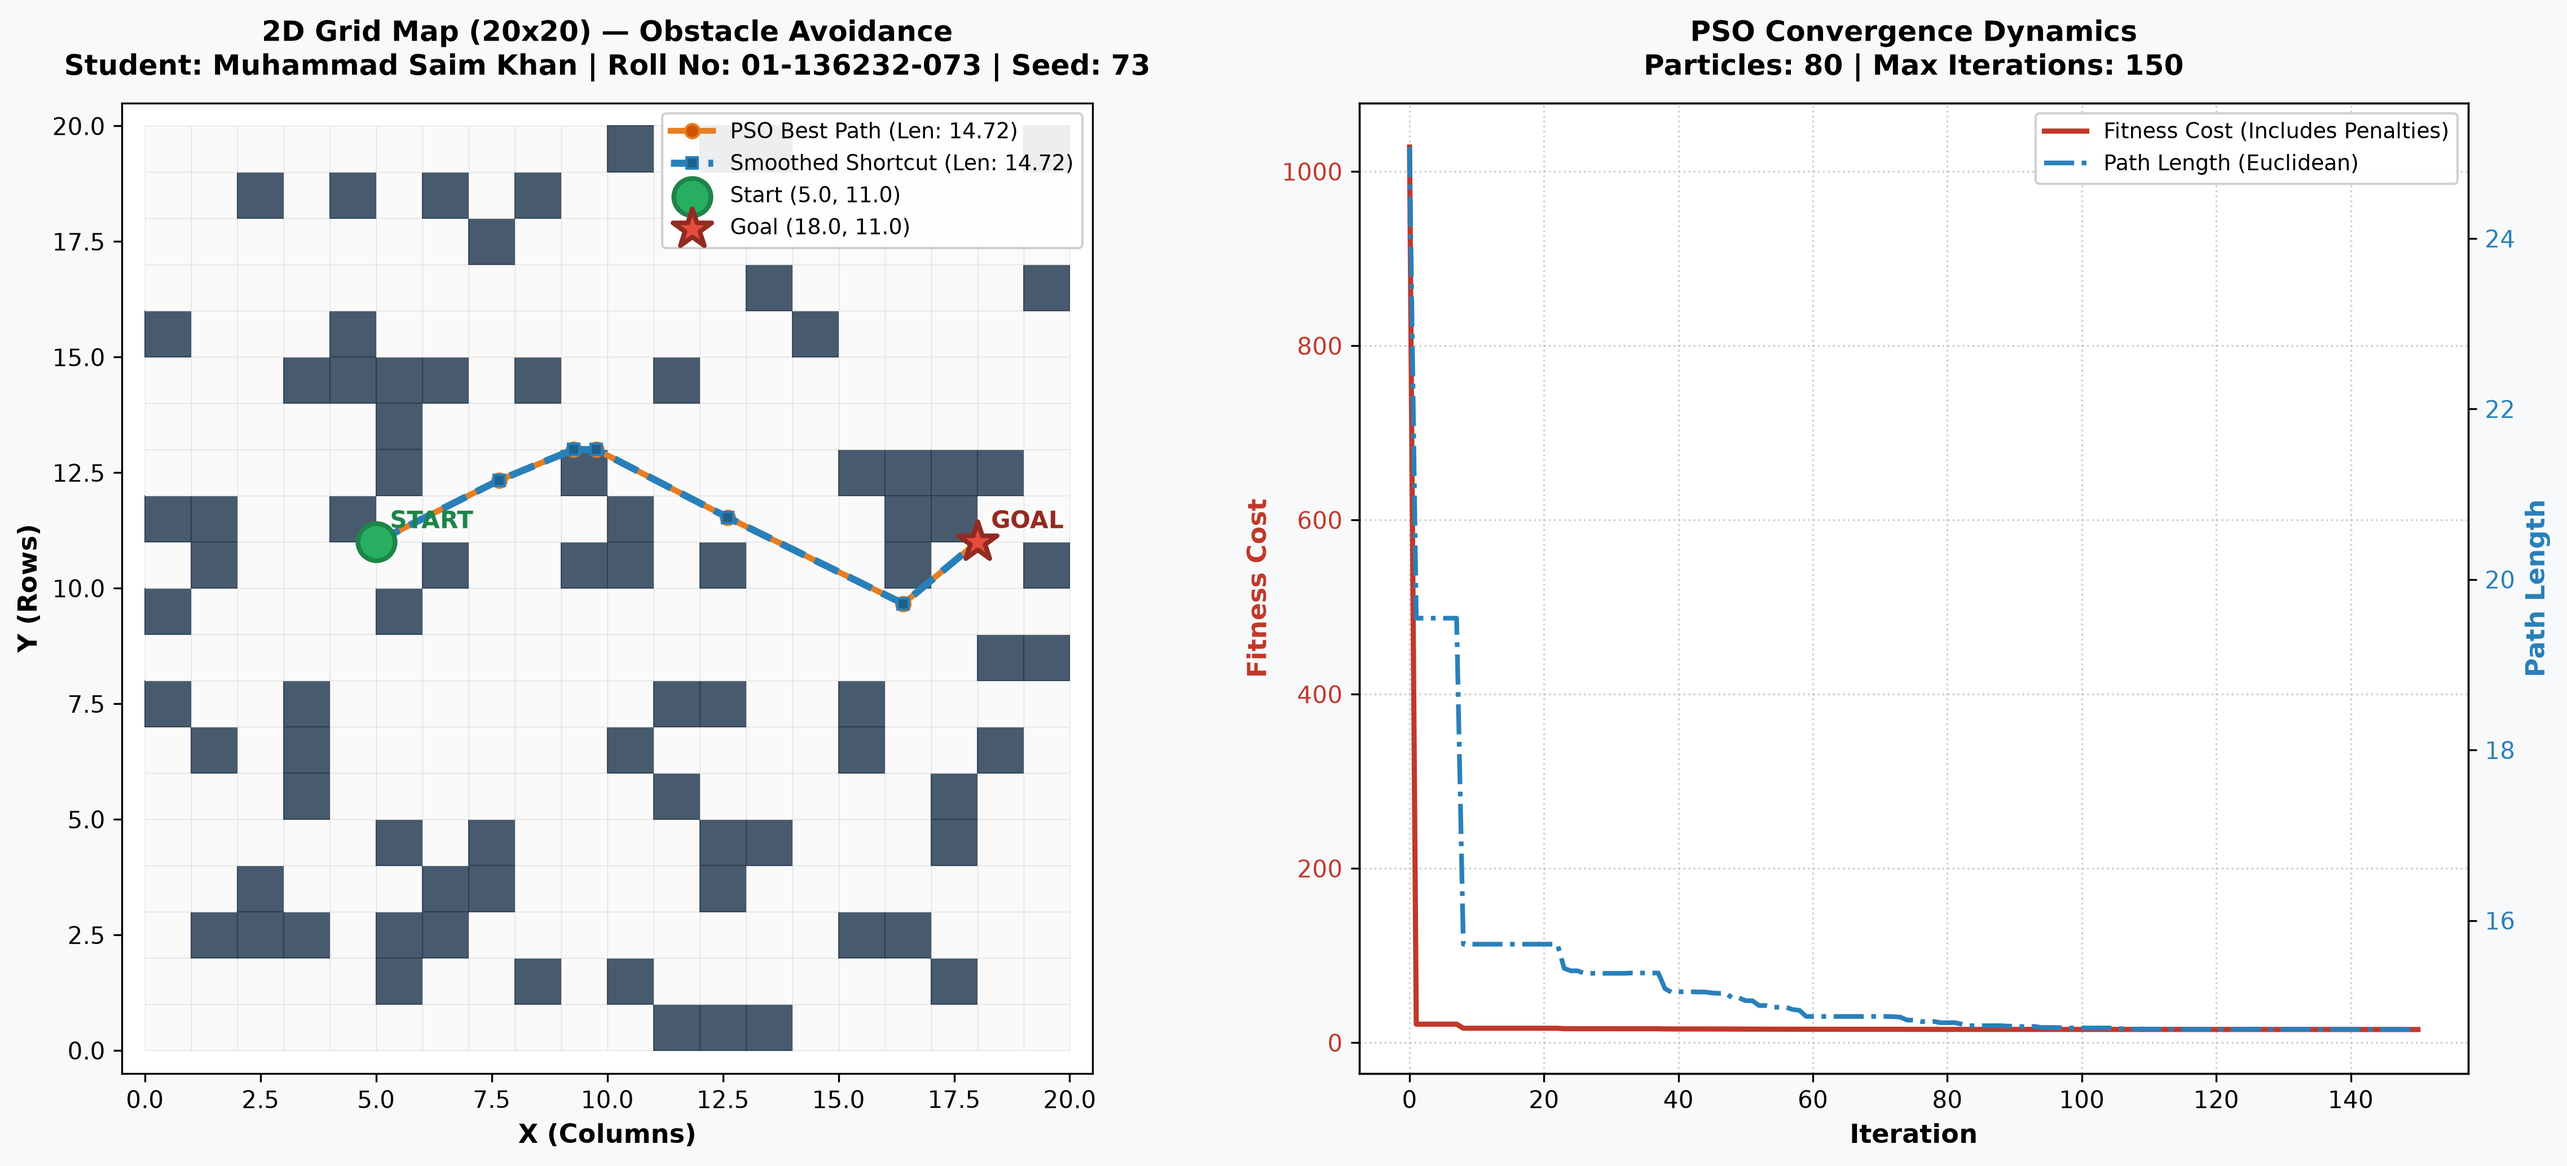
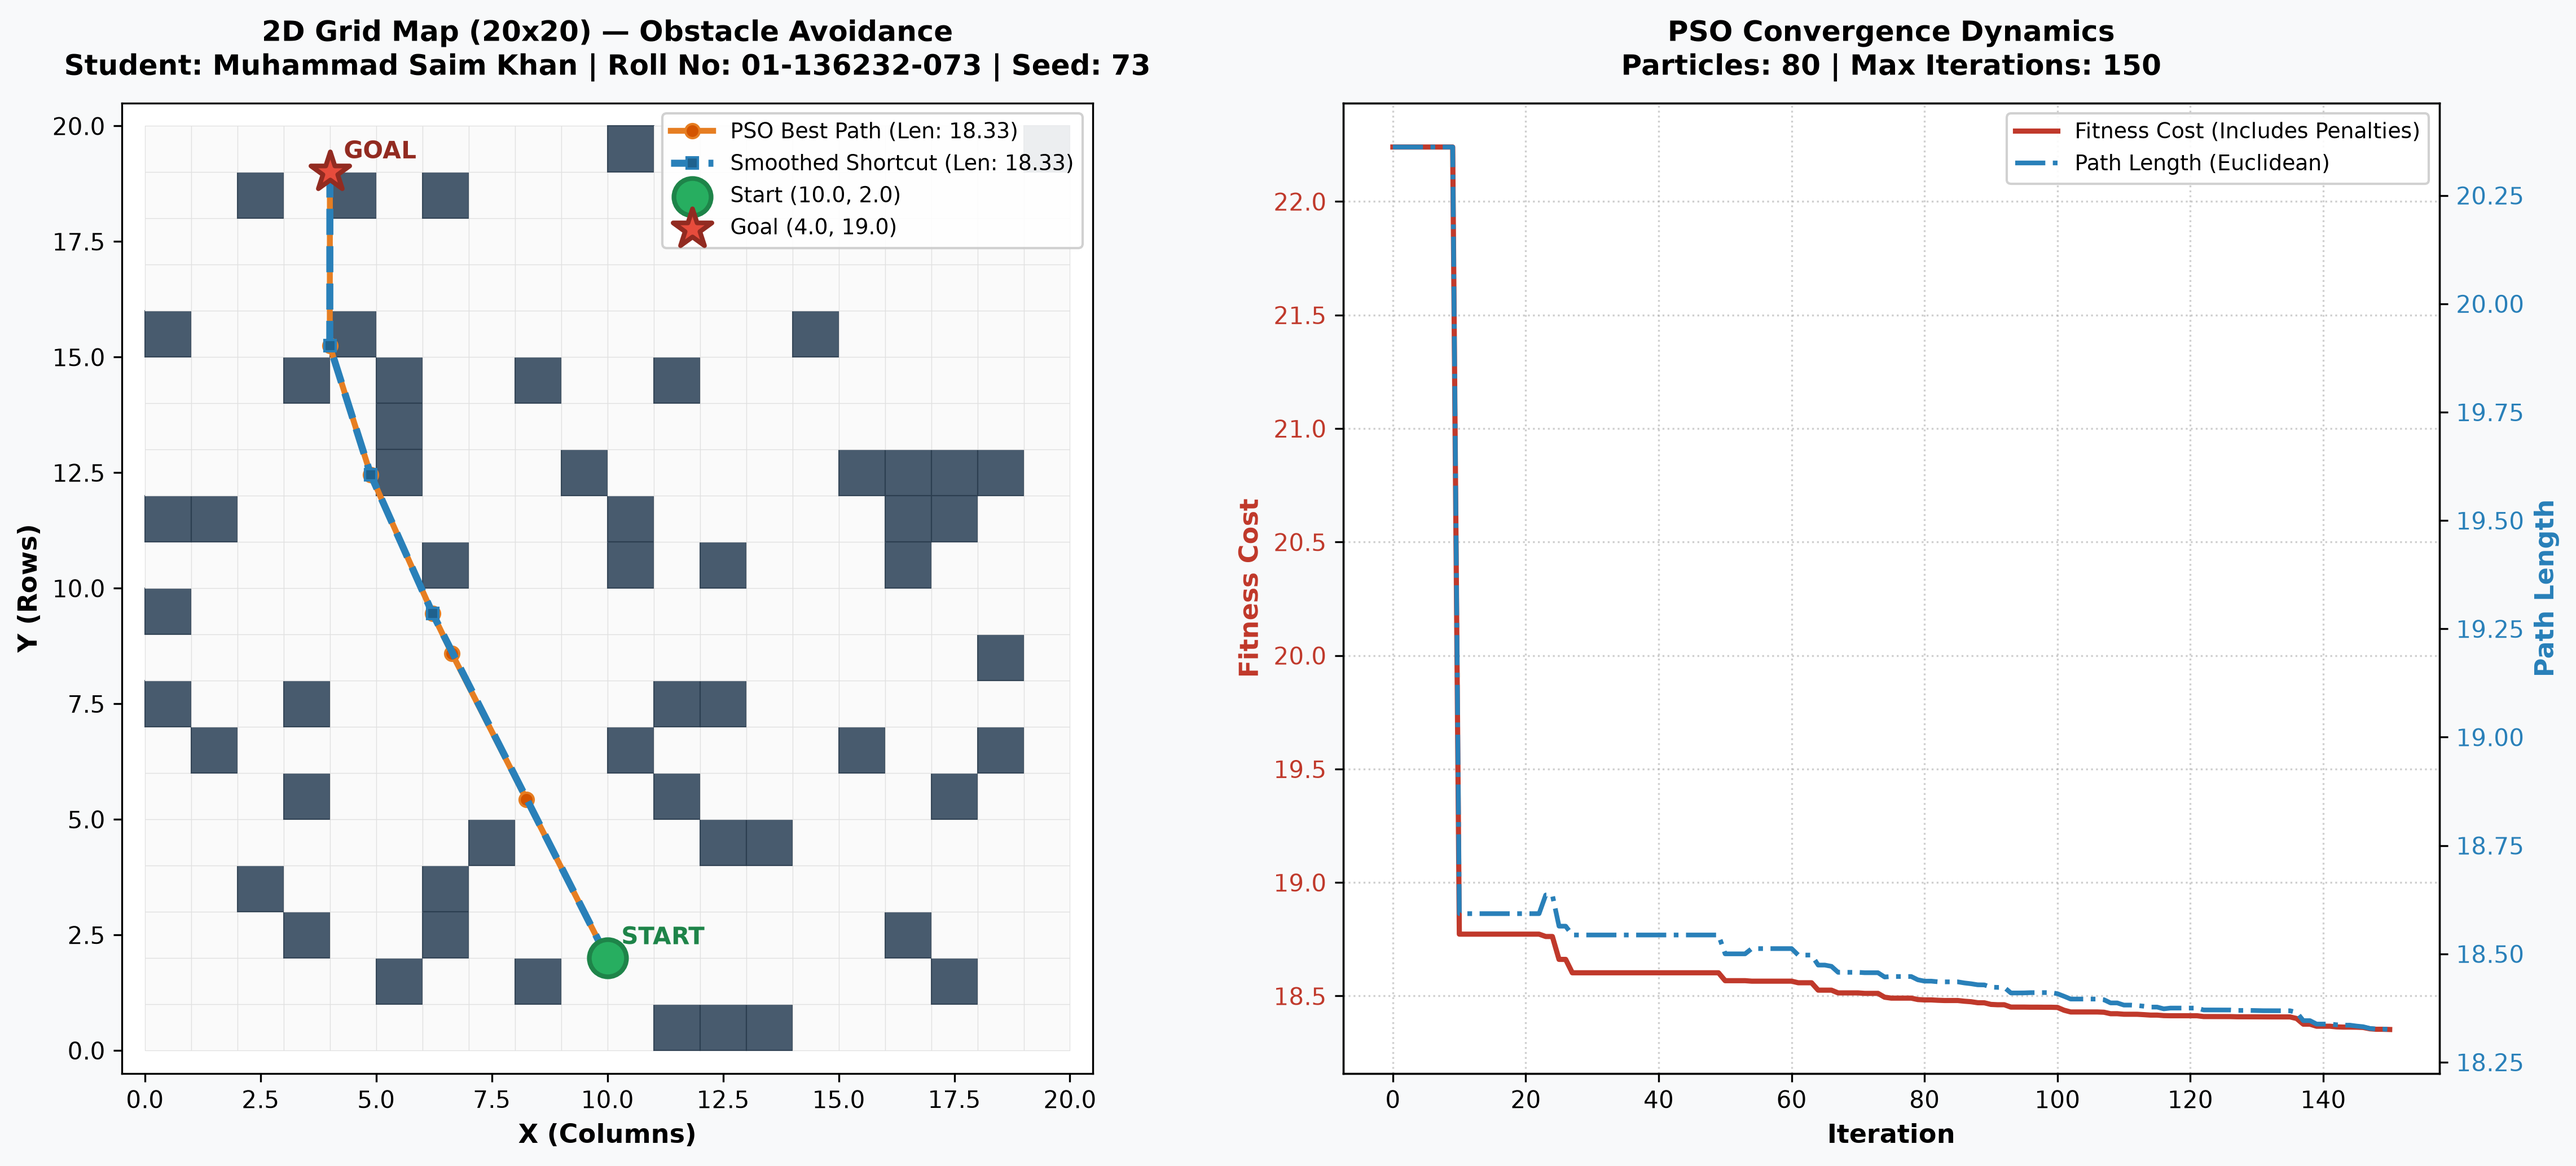
feat: embed student handwritten flowchart, synchronize 55 obstacles configuration and results

diff --git a/src/environment.py b/src/environment.py
@@ -5,7 +5,7 @@ Generates a programmatic 2D grid instance with obstacle cells, start point,
 and goal point using the student's roll number as a deterministic random seed.
 """
 
-from typing import Tuple, Set, List
+from typing import Tuple, Set, List, Optional
 import random
 from collections import deque
 import numpy as np
@@ -20,11 +20,16 @@ class GridEnvironment:
         self,
         grid_size: int = 20,
         seed: int = 73,
-        obstacle_ratio: float = 0.20,
+        num_obstacles: Optional[int] = 55,
+        obstacle_ratio: Optional[float] = None,
     ):
         self.grid_size = grid_size
         self.seed = seed
-        self.obstacle_ratio = obstacle_ratio
+        if obstacle_ratio is not None:
+            self.num_obstacles = int(grid_size * grid_size * obstacle_ratio)
+        else:
+            self.num_obstacles = num_obstacles if num_obstacles is not None else 55
+        self.obstacle_ratio = self.num_obstacles / (grid_size * grid_size)
         self.obstacles: Set[Tuple[int, int]] = set()
         self.start: Tuple[float, float] = (0.0, 0.0)
         self.goal: Tuple[float, float] = (0.0, 0.0)
@@ -40,13 +45,10 @@ class GridEnvironment:
         random.seed(self.seed)
         np.random.seed(self.seed % (2**32 - 1))
 
-        total_cells = self.grid_size * self.grid_size
-        num_obstacles = int(total_cells * self.obstacle_ratio)
-
         all_cells = [(r, c) for r in range(self.grid_size) for c in range(self.grid_size)]
         
         # Programmatically generate obstacle cells from seed
-        sampled_obstacles = random.sample(all_cells, num_obstacles)
+        sampled_obstacles = random.sample(all_cells, self.num_obstacles)
         self.obstacles = set(sampled_obstacles)
 
         # Free non-obstacle cells

diff --git a/main.py b/main.py
@@ -14,7 +14,7 @@ from src.config import (
     STUDENT_ROLL_NO,
     DEFAULT_SEED,
     DEFAULT_GRID_SIZE,
-    DEFAULT_OBSTACLE_RATIO,
+    DEFAULT_NUM_OBSTACLES,
     DEFAULT_NUM_PARTICLES,
     DEFAULT_NUM_ITERATIONS,
     DEFAULT_NUM_WAYPOINTS,
@@ -54,10 +54,16 @@ def parse_arguments() -> argparse.Namespace:
         help=f"Dimension of square 2D grid (default: {DEFAULT_GRID_SIZE})",
     )
     parser.add_argument(
+        "--obstacles",
+        type=int,
+        default=DEFAULT_NUM_OBSTACLES,
+        help=f"Number of obstacle cells (default: {DEFAULT_NUM_OBSTACLES})",
+    )
+    parser.add_argument(
         "--obstacle-ratio",
         type=float,
-        default=DEFAULT_OBSTACLE_RATIO,
-        help=f"Ratio of obstacle cells to total grid cells (default: {DEFAULT_OBSTACLE_RATIO})",
+        default=None,
+        help="Optional ratio of obstacle cells to total grid cells",
     )
     parser.add_argument(
         "--particles",
@@ -112,7 +118,7 @@ def main():
     print(f" Roll Number    : {args.roll_no}")
     print(f" Problem Seed   : {seed}")
     print(f" Grid Dimension : {args.grid_size} x {args.grid_size}")
-    print(f" Obstacle Ratio : {args.obstacle_ratio:.1%}")
+    print(f" Obstacles Count: {args.obstacles} cells")
     print(f" Swarm Size     : {args.particles} particles")
     print(f" Iterations     : {args.iterations} cycles")
     print(f" Path Waypoints : {args.waypoints} intermediate points")
@@ -123,6 +129,7 @@ def main():
     env = GridEnvironment(
         grid_size=args.grid_size,
         seed=seed,
+        num_obstacles=args.obstacles,
         obstacle_ratio=args.obstacle_ratio,
     )
     summary = env.get_summary()

diff --git a/src/config.py b/src/config.py
@@ -35,7 +35,7 @@ def roll_number_to_seed(roll_no: Union[str, int]) -> int:
 # Default Problem Instance Parameters (Roll Number: 01-136232-073 -> Seed: 73)
 DEFAULT_SEED: int = 73
 DEFAULT_GRID_SIZE: int = 20
-DEFAULT_OBSTACLE_RATIO: float = 0.20  # 20% obstacle coverage (80 obstacles in 20x20)
+DEFAULT_NUM_OBSTACLES: int = 55  # 55 obstacles as specified in student handwritten flowchart
 
 # PSO Hyperparameters
 DEFAULT_NUM_PARTICLES: int = 80

diff --git a/README.md b/README.md
@@ -13,12 +13,12 @@
 | **Roll Number** | **01-136232-073** |
 | **Random Seed Used** | **`73`** (extracted directly from roll number ending ID) |
 | **Grid Dimensions** | 20 &times; 20 (400 total cells) |
-| **Obstacle Ratio** | 20.0% (80 blocked cells) |
-| **Start Point $(X, Y)$** | **$(5.0, 11.0)$** |
-| **Goal Point $(X, Y)$** | **$(18.0, 11.0)$** |
-| **Euclidean Straight-Line Distance** | **13.00 units** |
+| **Obstacles Placed** | **55 blocked cells** (as specified in student flowchart) |
+| **Start Point $(X, Y)$** | **$(10.0, 2.0)$** |
+| **Goal Point $(X, Y)$** | **$(4.0, 19.0)$** |
+| **Euclidean Straight-Line Distance** | **18.03 units** |
 
-> **Note on Problem Uniqueness:** In strict accordance with the assignment specifications, the grid environment, obstacle layout, and start/goal locations are generated purely programmatically using `random.seed(73)`. No coordinates or obstacles are hardcoded.
+> **Note on Problem Uniqueness:** In strict accordance with the assignment specifications, the grid environment, 55 obstacle layout, and start/goal locations are generated purely programmatically using `random.seed(73)`. No coordinates or obstacles are hardcoded.
 
 ---
 
@@ -80,30 +80,30 @@ flowchart TD
     J --> K([Output Shortest Obstacle-Free Path])
 ```
 
-### Visual Flow Diagram
-![Algorithm Flowchart](assets/flowchart.png)
-
-> **Hand-Drawn Flow Diagram Note:** A hand-drawn, paper-photographed version of this flow diagram can also be directly placed at `assets/flowchart.png`.
+### Hand-Drawn Flow Diagram (Photographed)
+<div align="center">
+  <img src="assets/flowchart.jpg" alt="Hand-Drawn Flow Diagram" width="500" />
+</div>
 
 ---
 
 ## 3. Experimental Results
 
-Execution of `python main.py` with seed **`73`** produced the following results:
+Execution of `python main.py` with seed **`73`** and **55 obstacles** produced the following results:
 
 | Metric | Initial Swarm Best | Final PSO Best | Post-Processed Path |
 | :--- | :--- | :--- | :--- |
-| **Status** | Infeasible (1 Collision) | **FEASIBLE (0 Collisions)** | **FEASIBLE (0 Collisions)** |
-| **Fitness Cost** | 1028.11 | **15.11** | **14.72** |
-| **Path Length** | 25.07 units | **14.72 units** | **14.72 units** |
-| **Obstacle Collisions** | 1 cell | **0 cells** | **0 cells** |
-| **Direct Distance** | 13.00 units | 13.00 units | 13.00 units |
+| **Status** | **FEASIBLE (0 Collisions)** | **FEASIBLE (0 Collisions)** | **FEASIBLE (0 Collisions)** |
+| **Fitness Cost** | 22.24 | **18.35** | **18.33** |
+| **Path Length** | 20.36 units | **18.33 units** | **18.33 units** |
+| **Obstacle Collisions** | 0 cells | **0 cells** | **0 cells** |
+| **Direct Distance** | 18.03 units | 18.03 units | 18.03 units |
 
 ### Optimization & Convergence Plot
 ![Path Planning Result](assets/path_planning_result.png)
 
-- **Left Panel:** 2D grid $(20 \times 20)$ displaying the 80 blocked obstacle cells, the Start position $(5.0, 11.0)$, the Goal position $(18.0, 11.0)$, and the generated collision-free path safely bending around the obstacles.
-- **Right Panel:** Convergence curves illustrating how fitness cost dropped drastically once all collisions were resolved, followed by steady minimization of Euclidean path length over 150 iterations.
+- **Left Panel:** 2D grid $(20 \times 20)$ displaying the 55 blocked obstacle cells, the Start position $(10.0, 2.0)$, the Goal position $(4.0, 19.0)$, and the generated collision-free path safely dodging obstacles across an 18.03-unit span.
+- **Right Panel:** Convergence curves showing steady minimization of Euclidean path length over 150 iterations.
 
 ---
 
